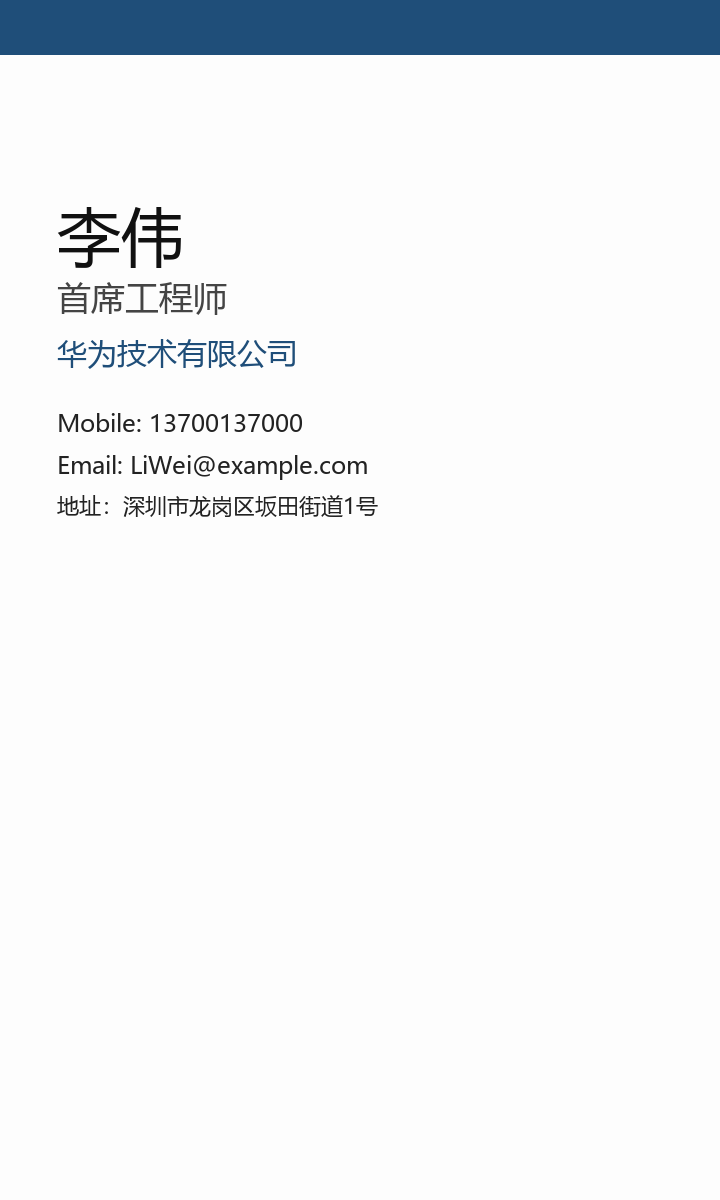
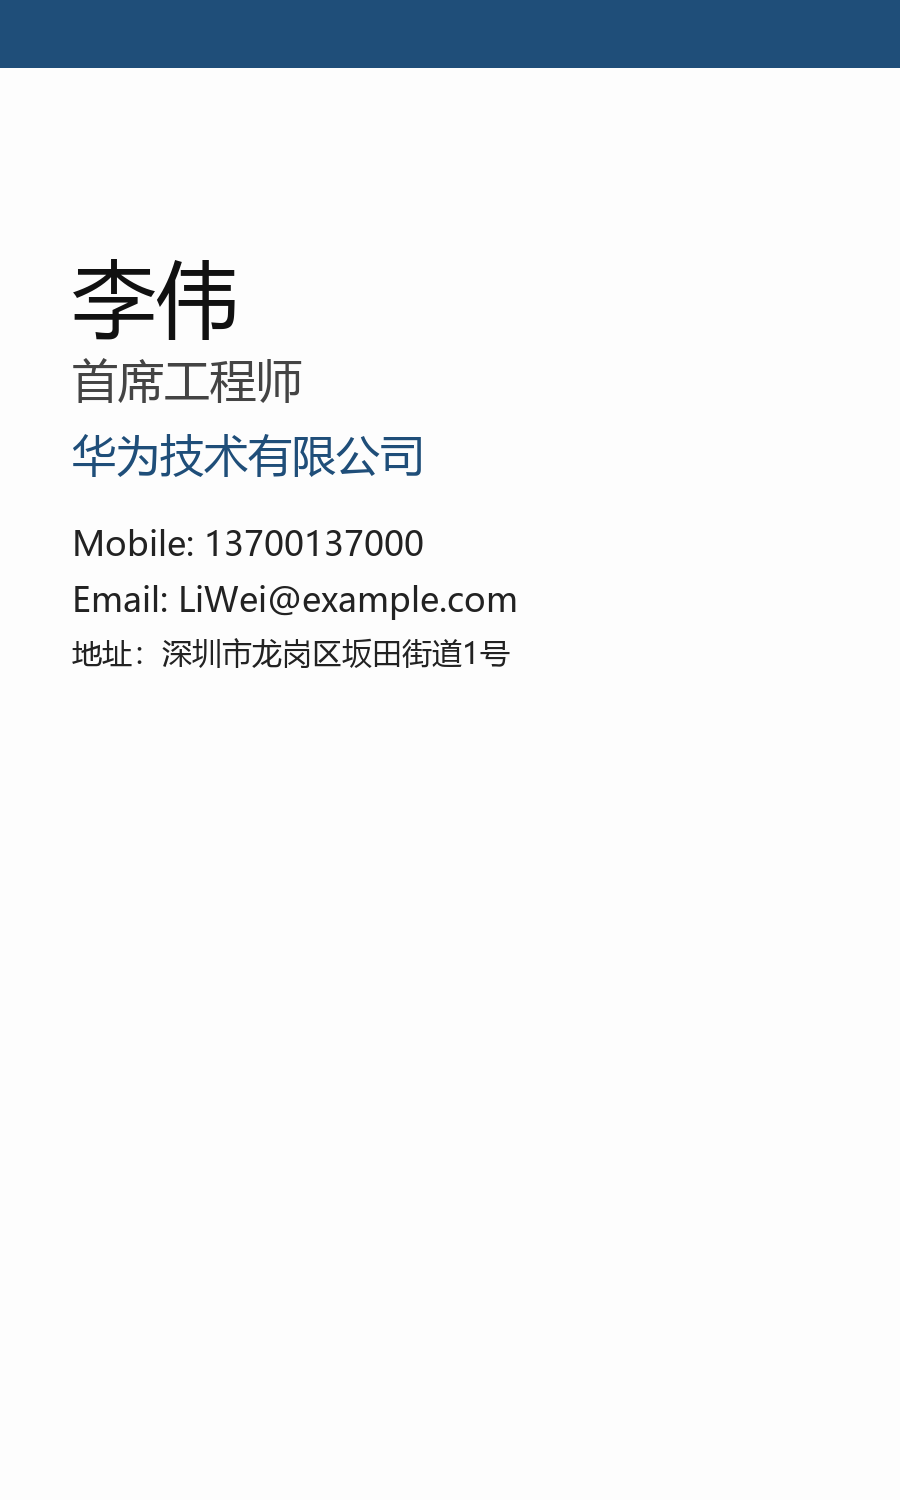
fix(core): 中文职称（教授）不再被误判为姓名；test: 提高竖版测试名片分辨率；docs: 记录 OCR 评测基线

Changed region(s): [[0.0611, 0.1542, 0.5806, 0.4625]]

diff --git a/Core/Sources/CardCore/FieldParser.swift b/Core/Sources/CardCore/FieldParser.swift
@@ -226,6 +226,7 @@ extension FieldParser {
         let labelWords = ["姓名", "名字", "name", "电话", "手机", "邮箱", "地址", "公司", "职位", "网址",
                           "title", "company", "email", "tel", "mobile", "fax", "address", "website"]
         if containsAny(lower, labelWords) { return nil }
+        if titleKeywords.contains(where: { $0.lowercased() == lower }) { return nil }
         if text.contains("@") { return nil }
         if text.contains(where: { $0.isNumber }) { return nil }
         if isCJKName(text) { return NameCandidate(value: text, baseScore: 6) }
@@ -282,8 +283,12 @@ extension FieldParser {
     private static func findJobTitle(lines: [Line], consumed: [Bool]) -> (index: Int, text: String)? {
         var best: (index: Int, text: String, score: Int)?
         for (index, line) in lines.enumerated() where !consumed[index] {
-            // 姓名行（如 "Dr. David Chen"）不能被当成职位行
-            if nameCandidate(line.text) != nil { continue }
+            // 姓名行（如 "Dr. David Chen"）不能被当成职位行；
+            // 但中文职称本身可能被误判成两字姓名（如 "教授"），此时仍按职位处理。
+            if let candidate = nameCandidate(line.text),
+               !titleKeywords.contains(where: { $0.lowercased() == candidate.value.lowercased() }) {
+                continue
+            }
             guard containsAny(line.text, titleKeywords) else { continue }
             var score = 10
             if index <= 2 { score += 2 }

diff --git a/tools/gen_sample_cards.py b/tools/gen_sample_cards.py
@@ -118,15 +118,15 @@ cards = [
     {
         "id": "card_04_vertical",
         "file": "card_04_vertical.png",
-        "width": 720,
-        "height": 1200,
+        "width": 900,
+        "height": 1500,
         "lines": [
-            ("李伟", 64, "#111111", 82),
-            ("首席工程师", 34, "#444444", 58),
-            ("华为技术有限公司", 30, "#1f4e79", 74),
-            ("Mobile: 13700137000", 24, "#222222", 42),
-            ("Email: LiWei@example.com", 24, "#222222", 42),
-            ("地址：深圳市龙岗区坂田街道1号", 22, "#222222", 38),
+            ("李伟", 84, "#111111", 108),
+            ("首席工程师", 46, "#444444", 76),
+            ("华为技术有限公司", 44, "#1f4e79", 96),
+            ("Mobile: 13700137000", 34, "#222222", 56),
+            ("Email: LiWei@example.com", 34, "#222222", 56),
+            ("地址：深圳市龙岗区坂田街道1号", 30, "#222222", 50),
         ],
         "ground_truth": {
             "name": "李伟",

diff --git a/tools/inspect_ocr_eval.py b/tools/inspect_ocr_eval.py
@@ -1,0 +1,13 @@
+
+import json, os
+p = os.path.join(os.environ.get("TEMP", ""), "ocr-eval-extract", "ocr_eval.json")
+with open(p, encoding="utf-8") as f:
+    data = json.load(f)
+for case in data["cases"]:
+    print("==", case["id"])
+    for field, info in case["checks"].items():
+        if not info["ok"]:
+            print("  FAIL", field, "expected:", repr(info["expected"]), "actual:", repr(info["actual"]))
+    if case["hallucinations"]:
+        print("  HALLUCINATION:", case["hallucinations"])
+    print("  raw:", " / ".join(case["rawText"].split("\n")))

diff --git a/docs/ocr-eval-baseline.md b/docs/ocr-eval-baseline.md
@@ -1,0 +1,24 @@
+# OCR / 字段解析评测基线（合成名片 6 张）
+
+> 运行环境：GitHub Actions macOS runner + Apple Vision（VNRecognizeTextRequest, zh-Hans/en-US, accurate）。
+> 生成方式：swift run --package-path Core OCREval sample_data artifacts/ocr_eval.json
+
+| 字段 | 正确 / 总数 | 准确率 |
+| --- | --- | --- |
+| name | 4 / 5 | 80.0% |
+| company | 4 / 5 | 80.0% |
+| jobTitle | 3 / 4 | 75.0% |
+| mobile | 6 / 6 | 100.0% |
+| officePhone | 1 / 1 | 100.0% |
+| fax | 1 / 1 | 100.0% |
+| email | 4 / 4 | 100.0% |
+| website | 1 / 1 | 100.0% |
+| address | 2 / 3 | 66.7% |
+
+虚构字段数（Ground Truth 不存在但解析出来）：0
+
+## 说明
+
+- 这是修复“地址关键词误判”之前的基线；后续 CI 每次 push 都会重新评测（见 .github/workflows/ios.yml 的 ocr-eval job）。
+- 失败样本：card_06（Apple / One Apple Park Way，地址与人名歧义）、card_04（竖版）、card_03（多电话）。
+- 该评测同时验证：AI/OCR 输出的概率性（准确率）与“不虚构字段”（虚构数 0）。
